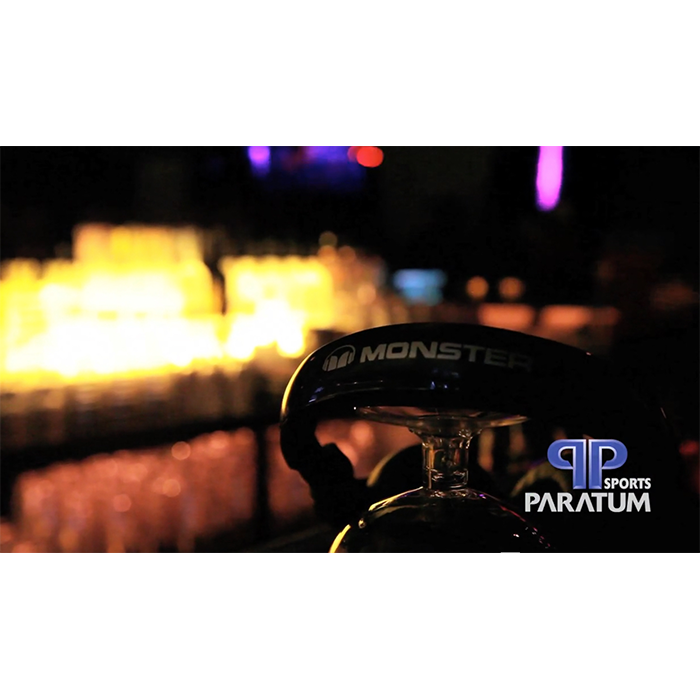
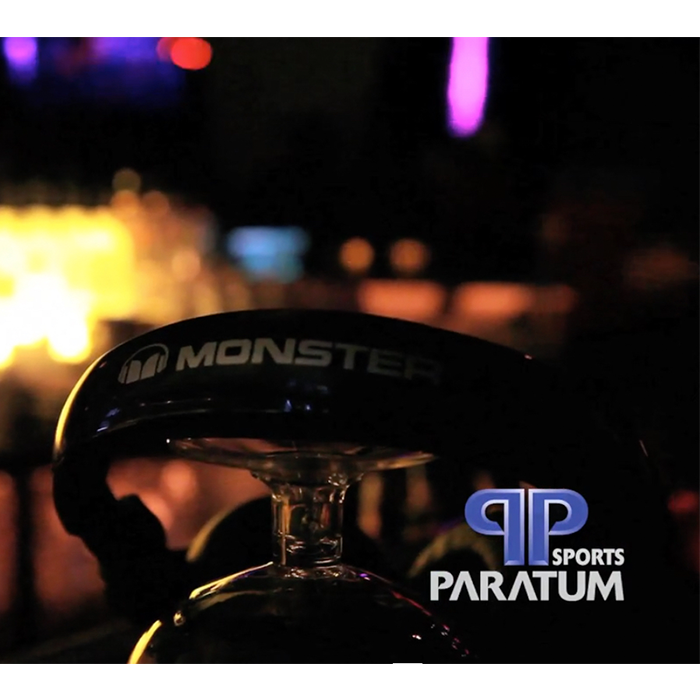
v.1.3
updated portfolio

diff --git a/main.html b/main.html
@@ -43,12 +43,11 @@
         <a name="video"></a>
           <iframe class="embed-responsive-item" src="https://player.vimeo.com/video/76329572?title=0&byline=0&portrait=0"></iframe>
         </div>
-        <center><h5 id="back"><a id="return1" href="#main">BACK</a></h5></center>
             <div class="container-img">
                 <div class="row">
                     <div class="container">
                         <a name="portfolio"></a>
-                            <center><h5 id="back"><a id="return1" href="#main">BACK</a></h5></center>
+                            <center><h5 id="portfolioback"><a id="return1" href="#main">BACK</a></h5></center>
                             <div class="col-md-4"><img src="work/logo/thumbs/paratumsports.png"/></div>
                             <div class="col-md-4"> <img src="work/logo/thumbs/warnerbrosrecords.png"/></div>
                             <div class="col-md-4"><img src="work/logo/thumbs/belugaheights.png"/></div>
@@ -60,6 +59,7 @@
                             <div class="col-md-4"><img src="work/mannbuzzin.png"/></div>
                             <div class="col-md-4"><img src="work/puppettheory.png"/></div>
                             <div class="col-md-4"><img src="work/LAGirls2.png"/></div>
+                            <div class="col-md-4"><img src="work/paratumsport.png"/></div>
                     </div>
                 </div>
             </div>
@@ -69,22 +69,22 @@
             <div class="aboutme">                
                     <h1 id="heading">Open For Business</h1>
                         <p id="text">I'm a freelance filmmaker/photographer living in Stockholm, Sweden trying to create magic through a lens. Currently studying Mobile Creative at Hyper Island</p>
-                    <a href="www.imdb.com" class="myButton">IMDB</a>
+                    <a href="http://www.imdb.com/name/nm3980930/" class="myButton" target="blank">IMDB</a>
             </div>
-                <h5 id="back"><a id="return" href="#main">BACK</a></h1>
+                <h5 id="aboutback"><a id="return" href="#main">BACK</a></h1>
         </div>
             <div class="socialmedia">
                 <div class="wrapper">
-                    <a name="contact"></a>
                     <h6 id="stalk">STALK ME</h6>
                     <ul class="soc">
-                        <li><a class="soc-twitter" href="#"></a></li>
-                        <li><a class="soc-linkedin" href="#"></a></li>
-                        <li><a class="soc-vimeo" href="#"></a></li>
-                        <li><a class="soc-email1" href="#"></a></li>
+                        <li><a class="soc-twitter" href="https://twitter.com/jeanpierrezeito" target="_blank"></a></li>
+                        <li><a class="soc-linkedin" href="https://www.linkedin.com/pub/jean-pierre-zeito/43/270/46b" target="_blank"></a></li>
+                        <li><a class="soc-vimeo" href="https://vimeo.com/user2728115" target="_blank"></a></li>
+                        <li><a class="soc-email1" href="mailto:jzeito@gmail.com"></a></li>
                     </ul>
                     <br>
                 </div>
+                <h5 id="backcontact"><a href="#main">BACK</h5>
             </div>
     </body>
 </html>

diff --git a/js/main.js b/js/main.js
@@ -28,14 +28,14 @@ $('.portfolio').click(function(e){
     $('.container1, .embed-responsive').fadeOut('slow', function(){
         $('.container-img').fadeIn('fast');
         $('html,body').animate({
-            scrollTop: 850
+            scrollTop: 900
         }, 1000);
     });
 });
 
-$('#back a').click(function(e){    
-    $('.container-img, .embed-responsive, .container1').fadeOut('fast', function(){
-        $('.top').fadeIn('slow');
+$('#portfolioback a').click(function(e){    
+    $('.container-img, .embed-responsive, .container1').fadeOut('slow', function(){
+        $('.top').fadeIn('fast');
     });
 });
 
@@ -50,7 +50,7 @@ $('#back a').click(function(e){
 });
 
 $('#return').click(function(e){    
-    $('.container1').fadeOut('fast', function(){
+    $('.container1, .socialmedia').fadeOut('fast', function(){
         $('.top').fadeIn('fast');
     });
 });
@@ -62,12 +62,12 @@ $('#return').click(function(e){
         $('.container-img, .embed-responsive, .container1').fadeOut('slow');
         $('html,body').animate({
             scrollTop: document.body.offsetHeight- window.innerHeight
-        }, 500);
+        }, 1000);
     });
 });
 
-$('#return').click(function(e){    
-    $('.container1').fadeOut('fast', function(){
+$('#backcontact a').click(function(e){    
+    $('.socialmedia').fadeOut('slow', function(){
         $('.top').fadeIn('fast');
     });
 });

diff --git a/css/main.css b/css/main.css
@@ -47,6 +47,13 @@ box-sizing: border-box;
 
 .container-img img {
     width: 49%;
+    border-color: 
+}
+
+#portfolioback #return1 {
+    font-family: rockwell;
+    color: #FF4040;
+    font-size: 30px;
 }
 
 .container1 img {
@@ -65,7 +72,8 @@ box-sizing: border-box;
 .aboutme {
     width: 35%;
     margin-left: 35%;
-    margin-top: 20%
+    margin-top: 50%;
+    padding-bottom: 200px;
 }
 
 #heading {
@@ -134,11 +142,16 @@ box-sizing: border-box;
 	top:1px;
 }
 
-#back a {
+#aboutback a {
     font-family: rockwell;
     font-size: 25px;
     margin-top: 100px;
-    color: #FF4040;
+    color: white;
+}
+
+#aboutback {
+    text-align: center;
+    padding-bottom: 50px;
 }
 
 
@@ -286,5 +299,10 @@ a {
 
 }
 
-
+#backcontact {
+    font-family: rockwell;
+    color: white;
+    font-size: 20px;
+    padding-top: 100px;
+}
 
